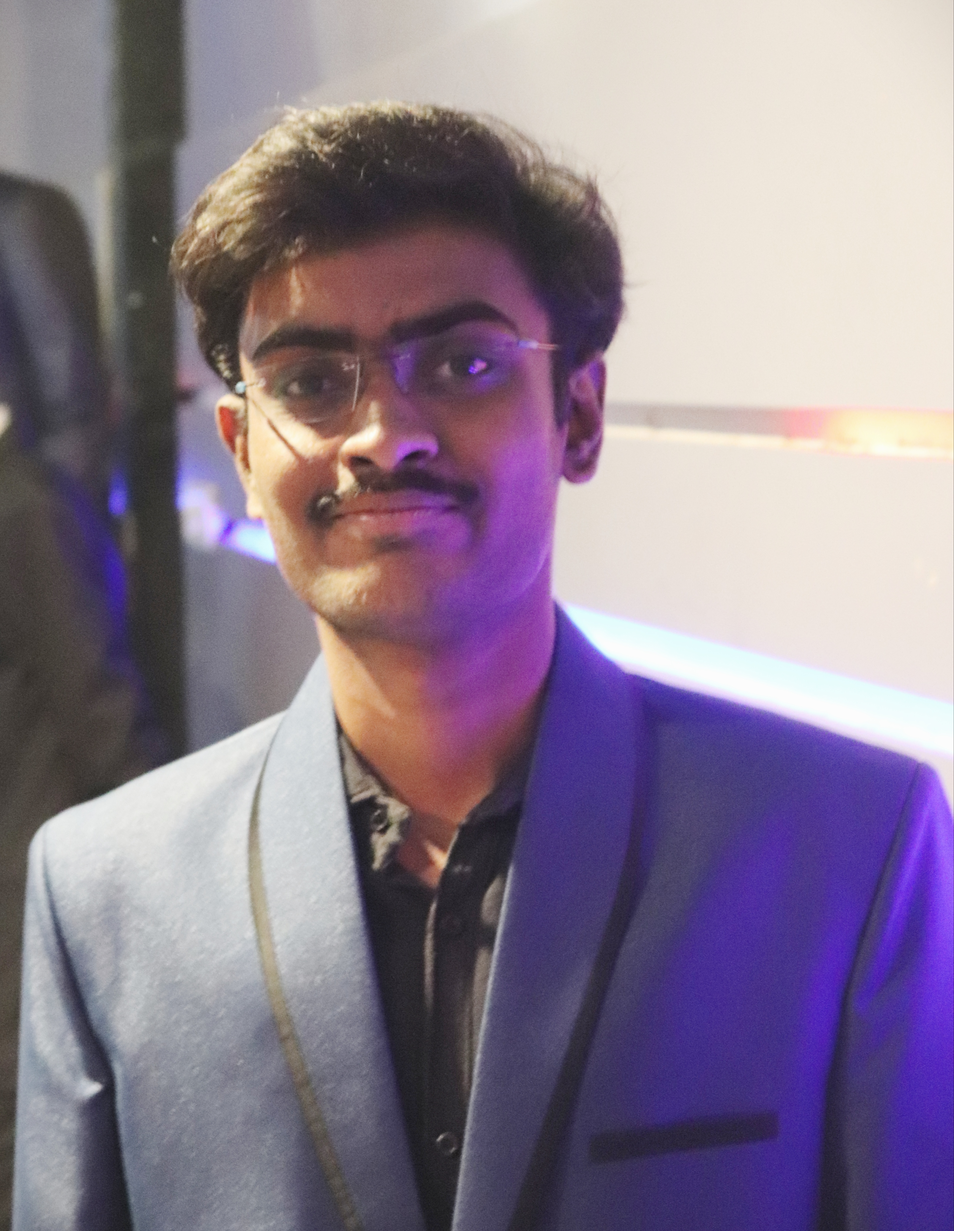
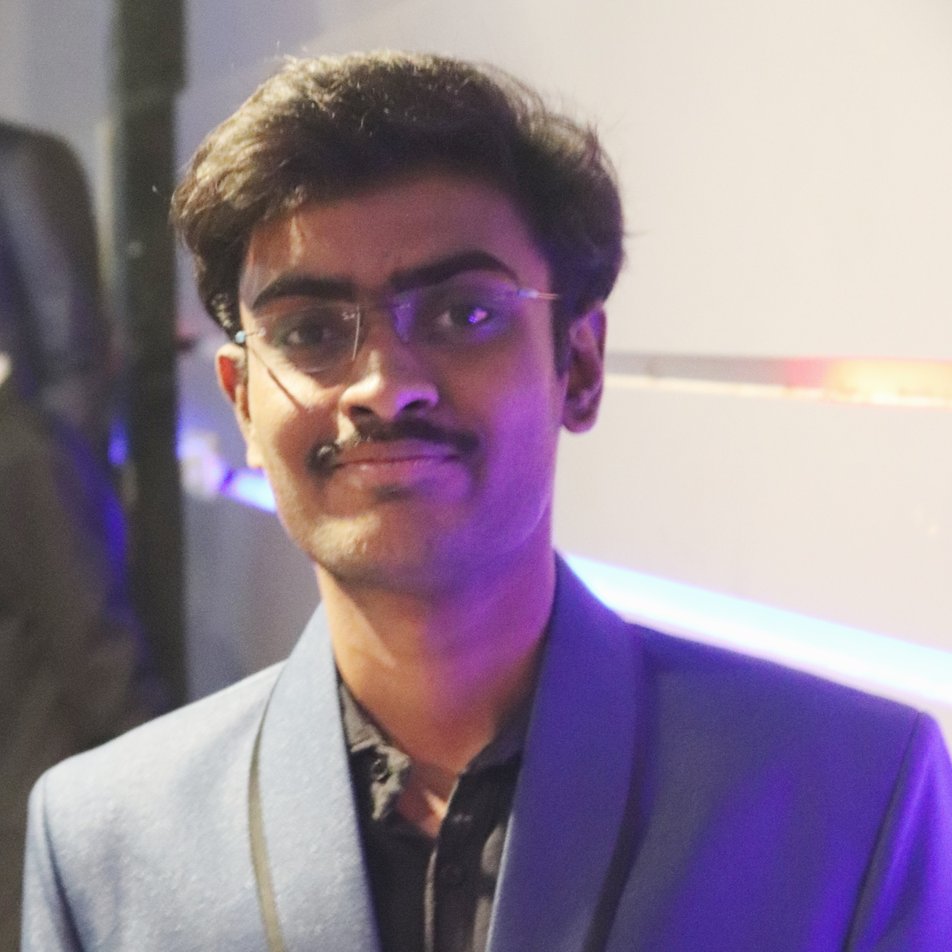
added csv data for new team members; updated about-team page with new assets and info

diff --git a/src/components/teamTile/TeamMember.tsx b/src/components/teamTile/TeamMember.tsx
@@ -32,7 +32,7 @@ const TeamMember: React.FC<TeamMemberTileProps> = ({
           node {
             base
             childImageSharp {
-              fixed(width: 400, height: 400) {
+              fixed(width: 307, height: 307) {
                 aspectRatio
                 base64
                 src
@@ -48,28 +48,28 @@ const TeamMember: React.FC<TeamMemberTileProps> = ({
   `)
 
   return (
-    <div className="col-12 col-md-6 col-xl-4 team-member">
-      {imageData && imageData.allFile.edges.length > 0 &&
-        imageData.allFile.edges
-          .filter((entries): boolean => {
-            return entries.node.base === profile_pic
-          })
-          .map((item): JSX.Element => (
-            <GatsbyImage
-              className="mb-2"
-              key={item.node.base}
-              fixed={item.node.childImageSharp.fixed}
-              imgStyle={{
-                clipPath: 'circle(40%)',
-                padding: '1.5rem',
-              }}
-              alt={name}
-            />
-          ))}
-      <h4>{name}</h4>
-      <h5 className="core-team-college">{academics}</h5>
-      <h5>{role}</h5>
-    </div>
+        <div className="col-12 col-md-6 col-xl-4 team-member">
+            {imageData && imageData.allFile.edges.length > 0 &&
+            imageData.allFile.edges
+                .filter((entries): boolean => {
+                    return entries.node.base === profile_pic
+                })
+                .map((item): JSX.Element => (
+                    <GatsbyImage
+                        className="mb-2"
+                        key={item.node.base}
+                        fixed={item.node.childImageSharp.fixed}
+                        imgStyle={{
+                            clipPath: 'circle(40%)',
+                            padding: '1.5rem',
+                        }}
+                        alt={name}
+                    />
+                ))}
+            <h4>{name}</h4>
+            <h5 className="core-team-college">{academics}</h5>
+            <h5>{role}</h5>
+        </div>
   )
 }
 

diff --git a/src/pages/Team.tsx b/src/pages/Team.tsx
@@ -60,7 +60,7 @@ const Team: React.FC<TeamDataType & LocationProps> = ({location, data}) => {
                             <h4 className="section-title text-center py-5">
                                 Developers
                             </h4>
-                            <div className="row">
+                            <div className="row justify-content-lg-center">
                                 {data && data.allEcTeamDataCsv && data.allEcTeamDataCsv.edges && Array.isArray(data.allEcTeamDataCsv.edges) && data.allEcTeamDataCsv.edges.filter((items) => {
                                     return items.node && !items.node.academics
                                 }).map((item): JSX.Element => (
